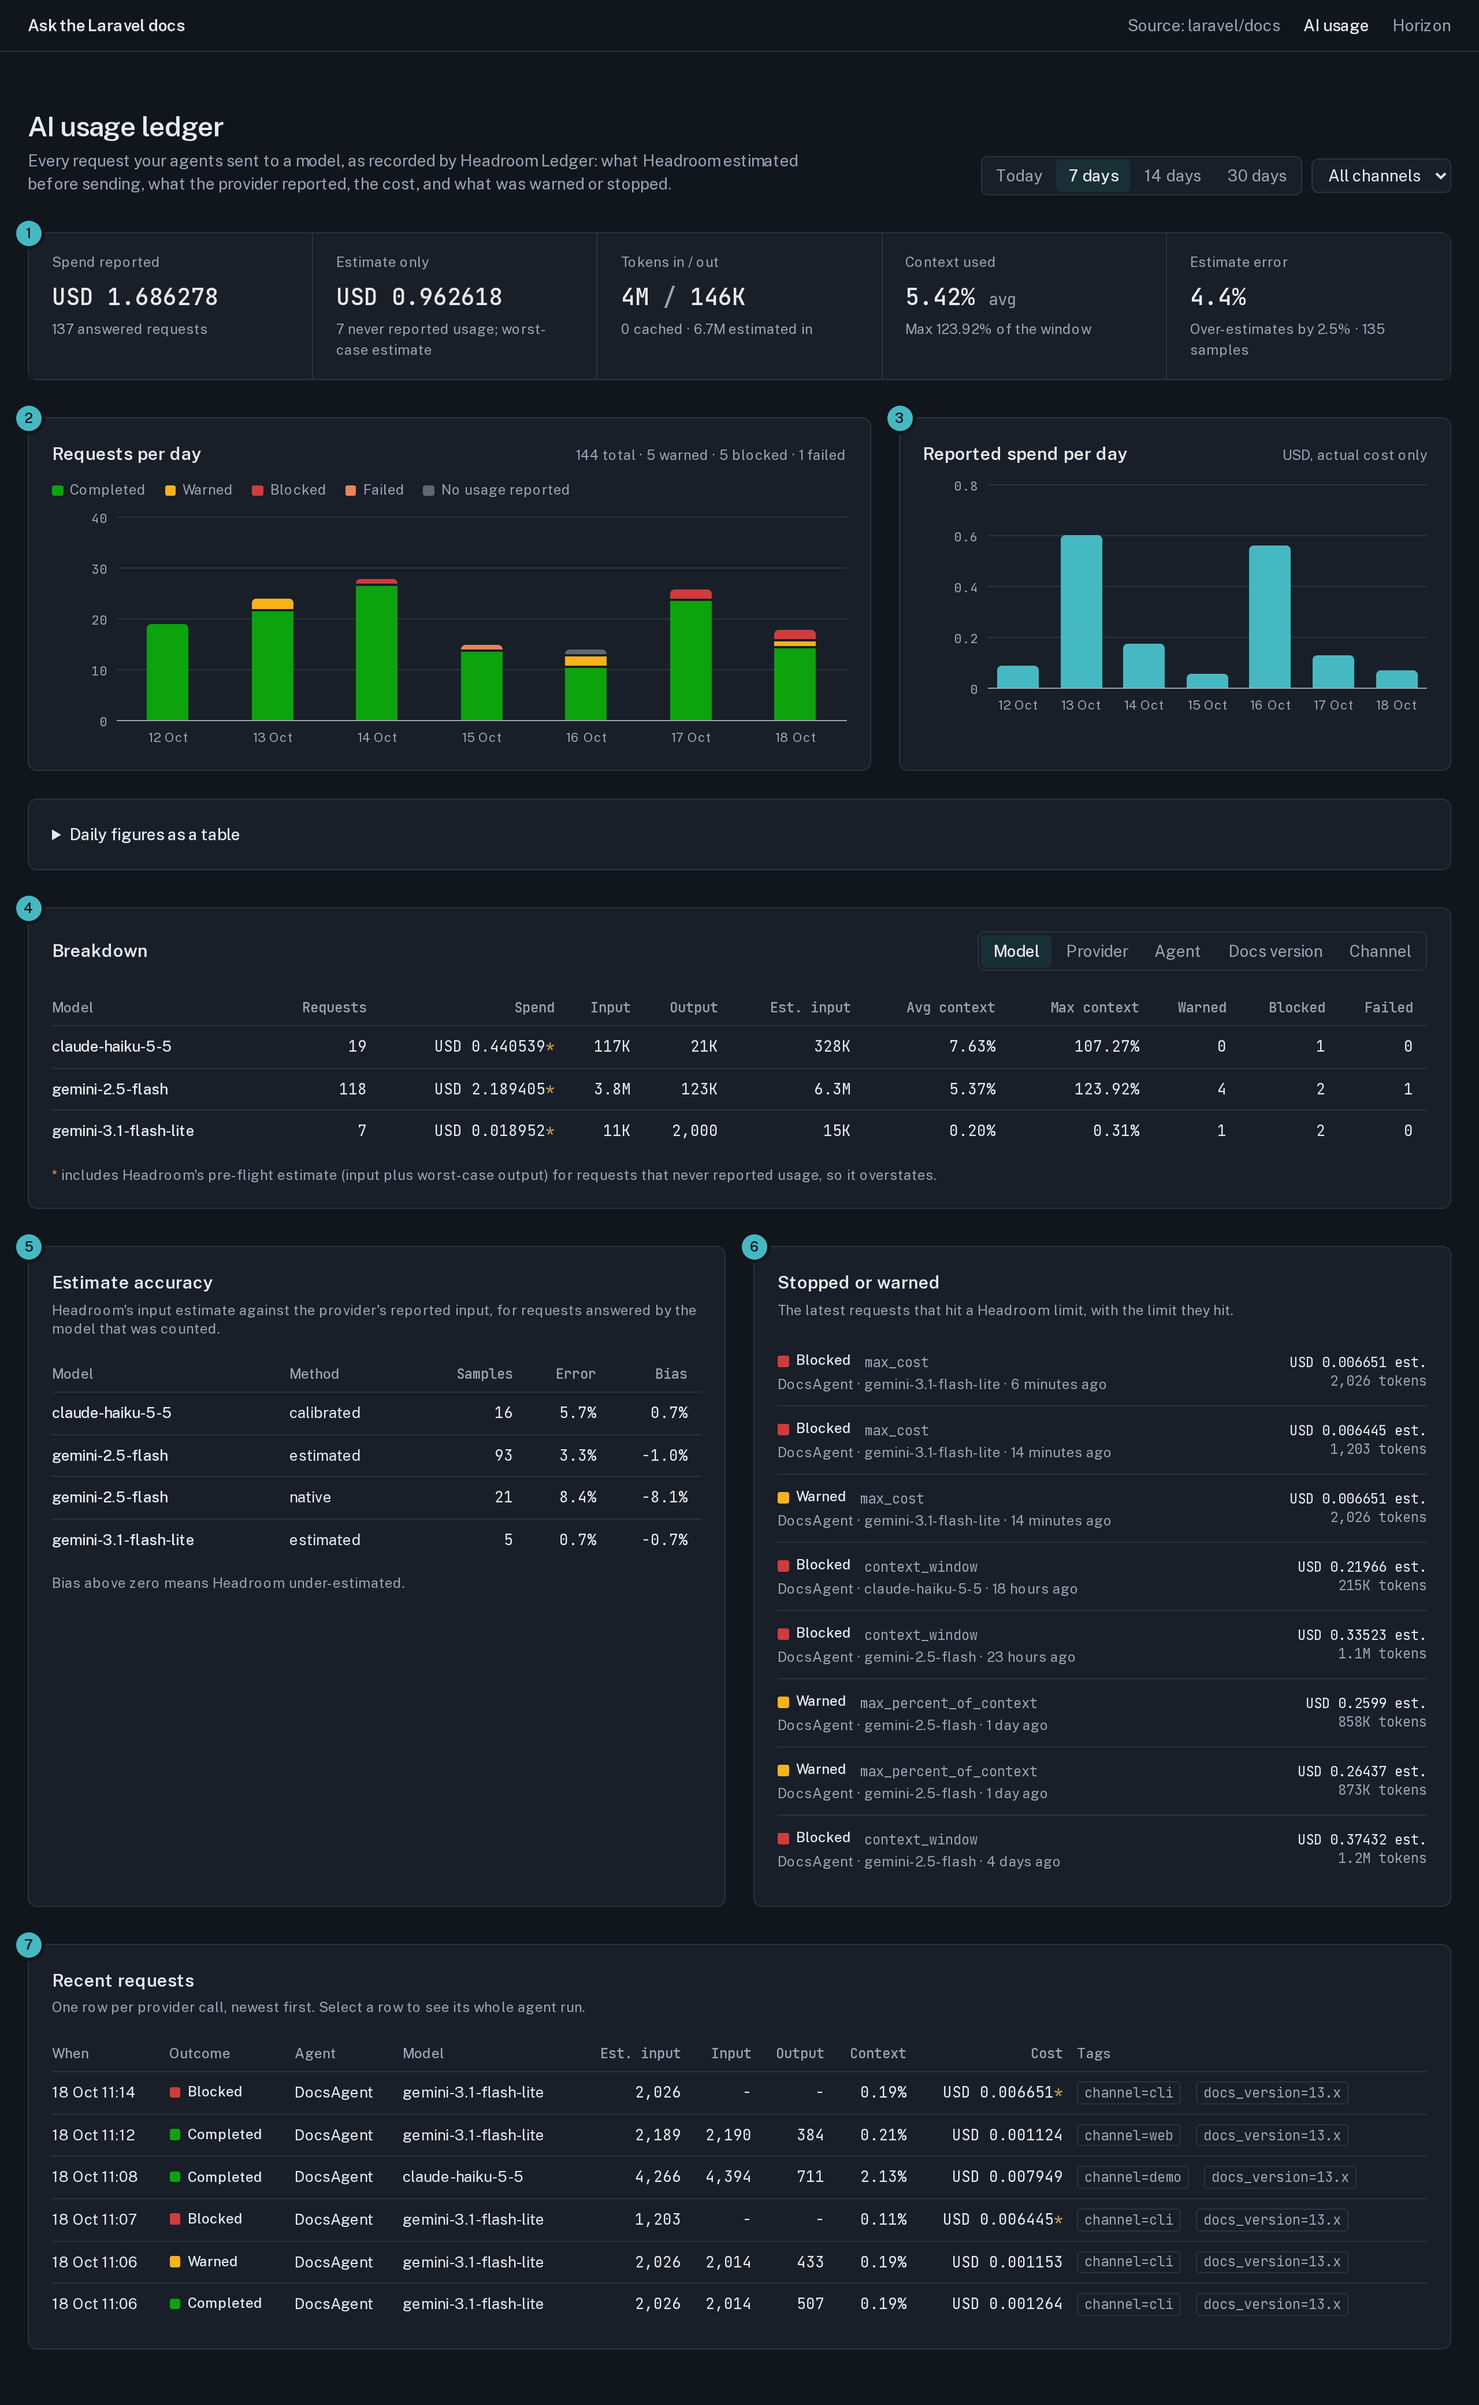
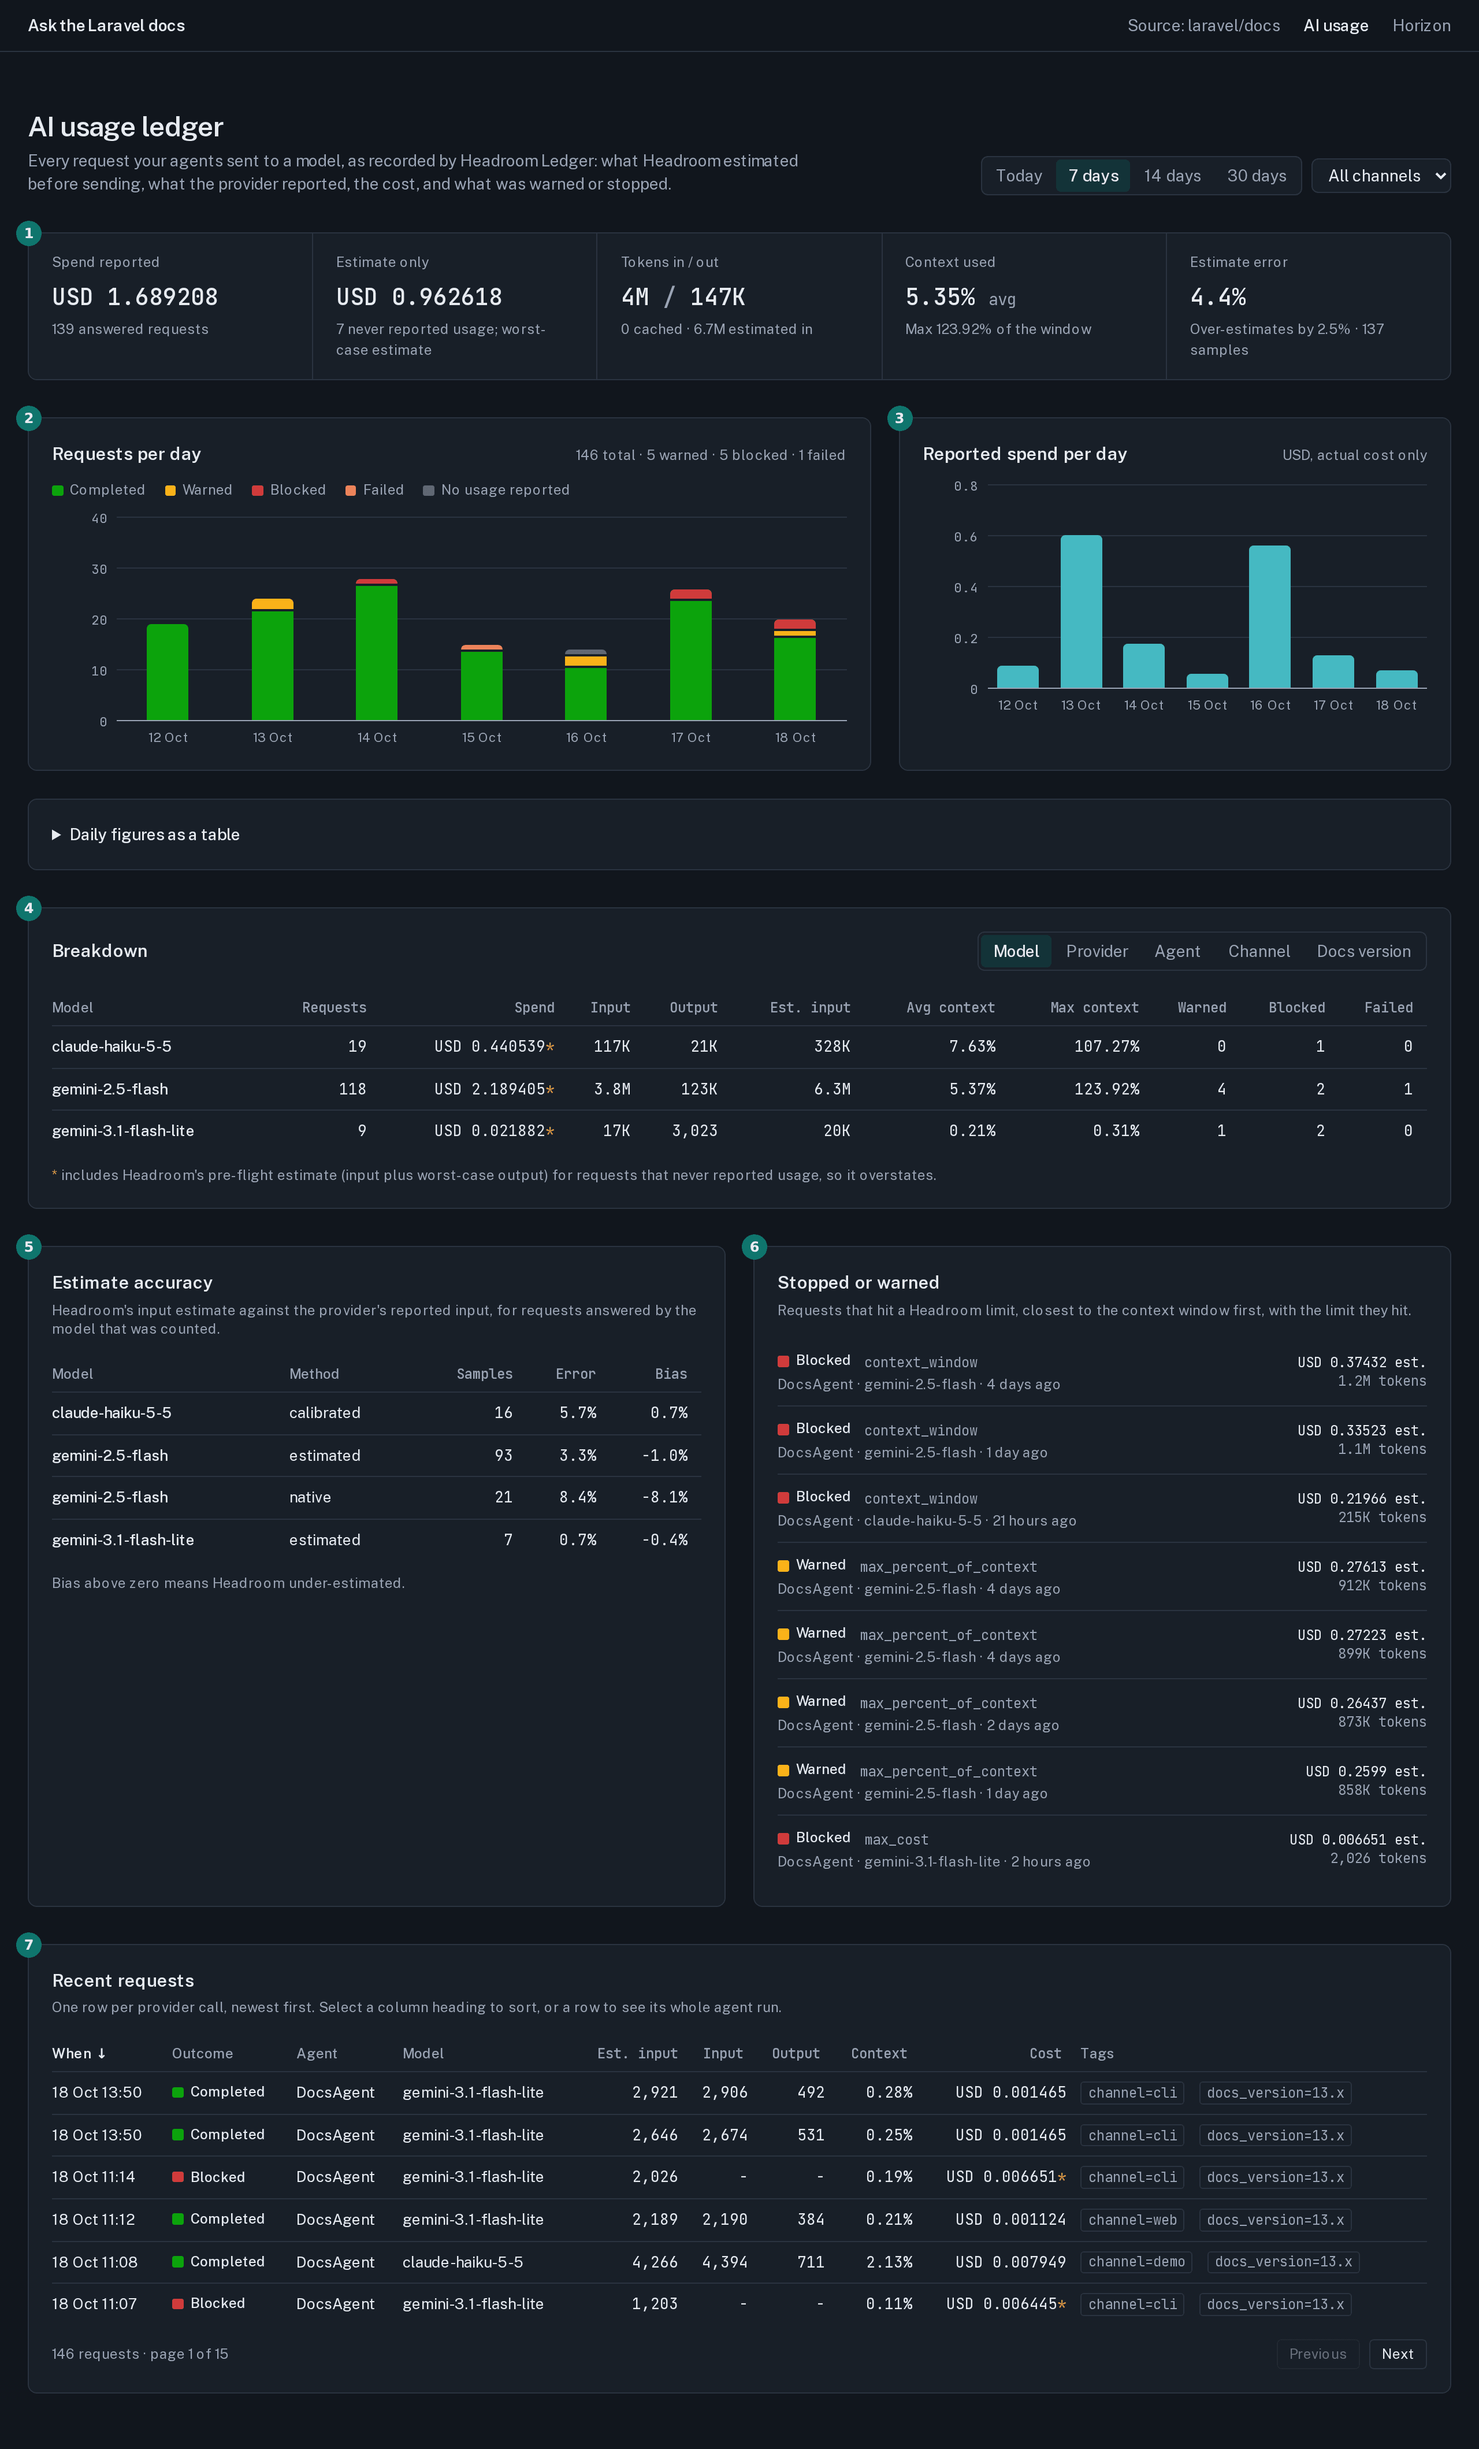
chore: recapture the dashboard screenshots with paging and sortable columns

diff --git a/docs/index.html b/docs/index.html
@@ -373,7 +373,7 @@ Ledger::run($invocationId);                              <span class="c">// ever
         <h2>Your data, your UI</h2>
         <p>The query API is all a dashboard needs. This is a plain Livewire page, built only on the calls above (no ledger tables, no models) and tested in a copy of <a href="https://github.com/phoenix1331/laravel-docs-rag-playground">laravel-docs-rag-playground</a>, a Laravel app that answers questions about the Laravel docs. It shows 7 days of real Gemini requests alongside demo traffic from the package's factory.</p>
       </div>
-      <a href="ledger-dashboard-dark.png"><img class="demo" src="ledger-dashboard-dark.png" width="1280" height="2081" loading="lazy" alt="A Livewire dashboard over 7 days, with numbered panels: 1 spend, tokens, context and estimate error tiles; 2 requests per day by outcome; 3 reported spend per day; 4 a breakdown by model; 5 estimate accuracy per model and count method; 6 stopped or warned requests with the limit hit; 7 recent requests with tags"></a>
+      <a href="ledger-dashboard-dark.png"><img class="demo" src="ledger-dashboard-dark.png" width="1280" height="2119" loading="lazy" alt="A Livewire dashboard over 7 days, with numbered panels: 1 spend, tokens, context and estimate error tiles; 2 requests per day by outcome; 3 reported spend per day; 4 a breakdown by model; 5 estimate accuracy per model and count method; 6 stopped or warned requests with the limit hit; 7 recent requests with tags, sortable columns and page links"></a>
       <p class="caption">Select the image for full size. Real requests from the docs app's web page and command line, plus demo history tagged <code>channel=demo</code>.</p>
       <div class="table-scroll">
         <table>

diff --git a/README.md b/README.md
@@ -274,7 +274,7 @@ The query API is all a dashboard needs. This one is a plain Livewire page, teste
 
 <picture>
   <source media="(prefers-color-scheme: dark)" srcset="docs/ledger-dashboard-dark.png">
-  <img src="docs/ledger-dashboard-light.png" alt="A Livewire dashboard over 7 days, with numbered panels: 1 spend, tokens, context and estimate error tiles; 2 requests per day by outcome; 3 reported spend per day; 4 a breakdown by model; 5 estimate accuracy per model and count method; 6 stopped or warned requests with the limit hit; 7 recent requests with tags">
+  <img src="docs/ledger-dashboard-light.png" alt="A Livewire dashboard over 7 days, with numbered panels: 1 spend, tokens, context and estimate error tiles; 2 requests per day by outcome; 3 reported spend per day; 4 a breakdown by model; 5 estimate accuracy per model and count method; 6 stopped or warned requests with the limit hit; 7 recent requests with tags, sortable columns and page links">
 </picture>
 
 | Panel | Query API |
